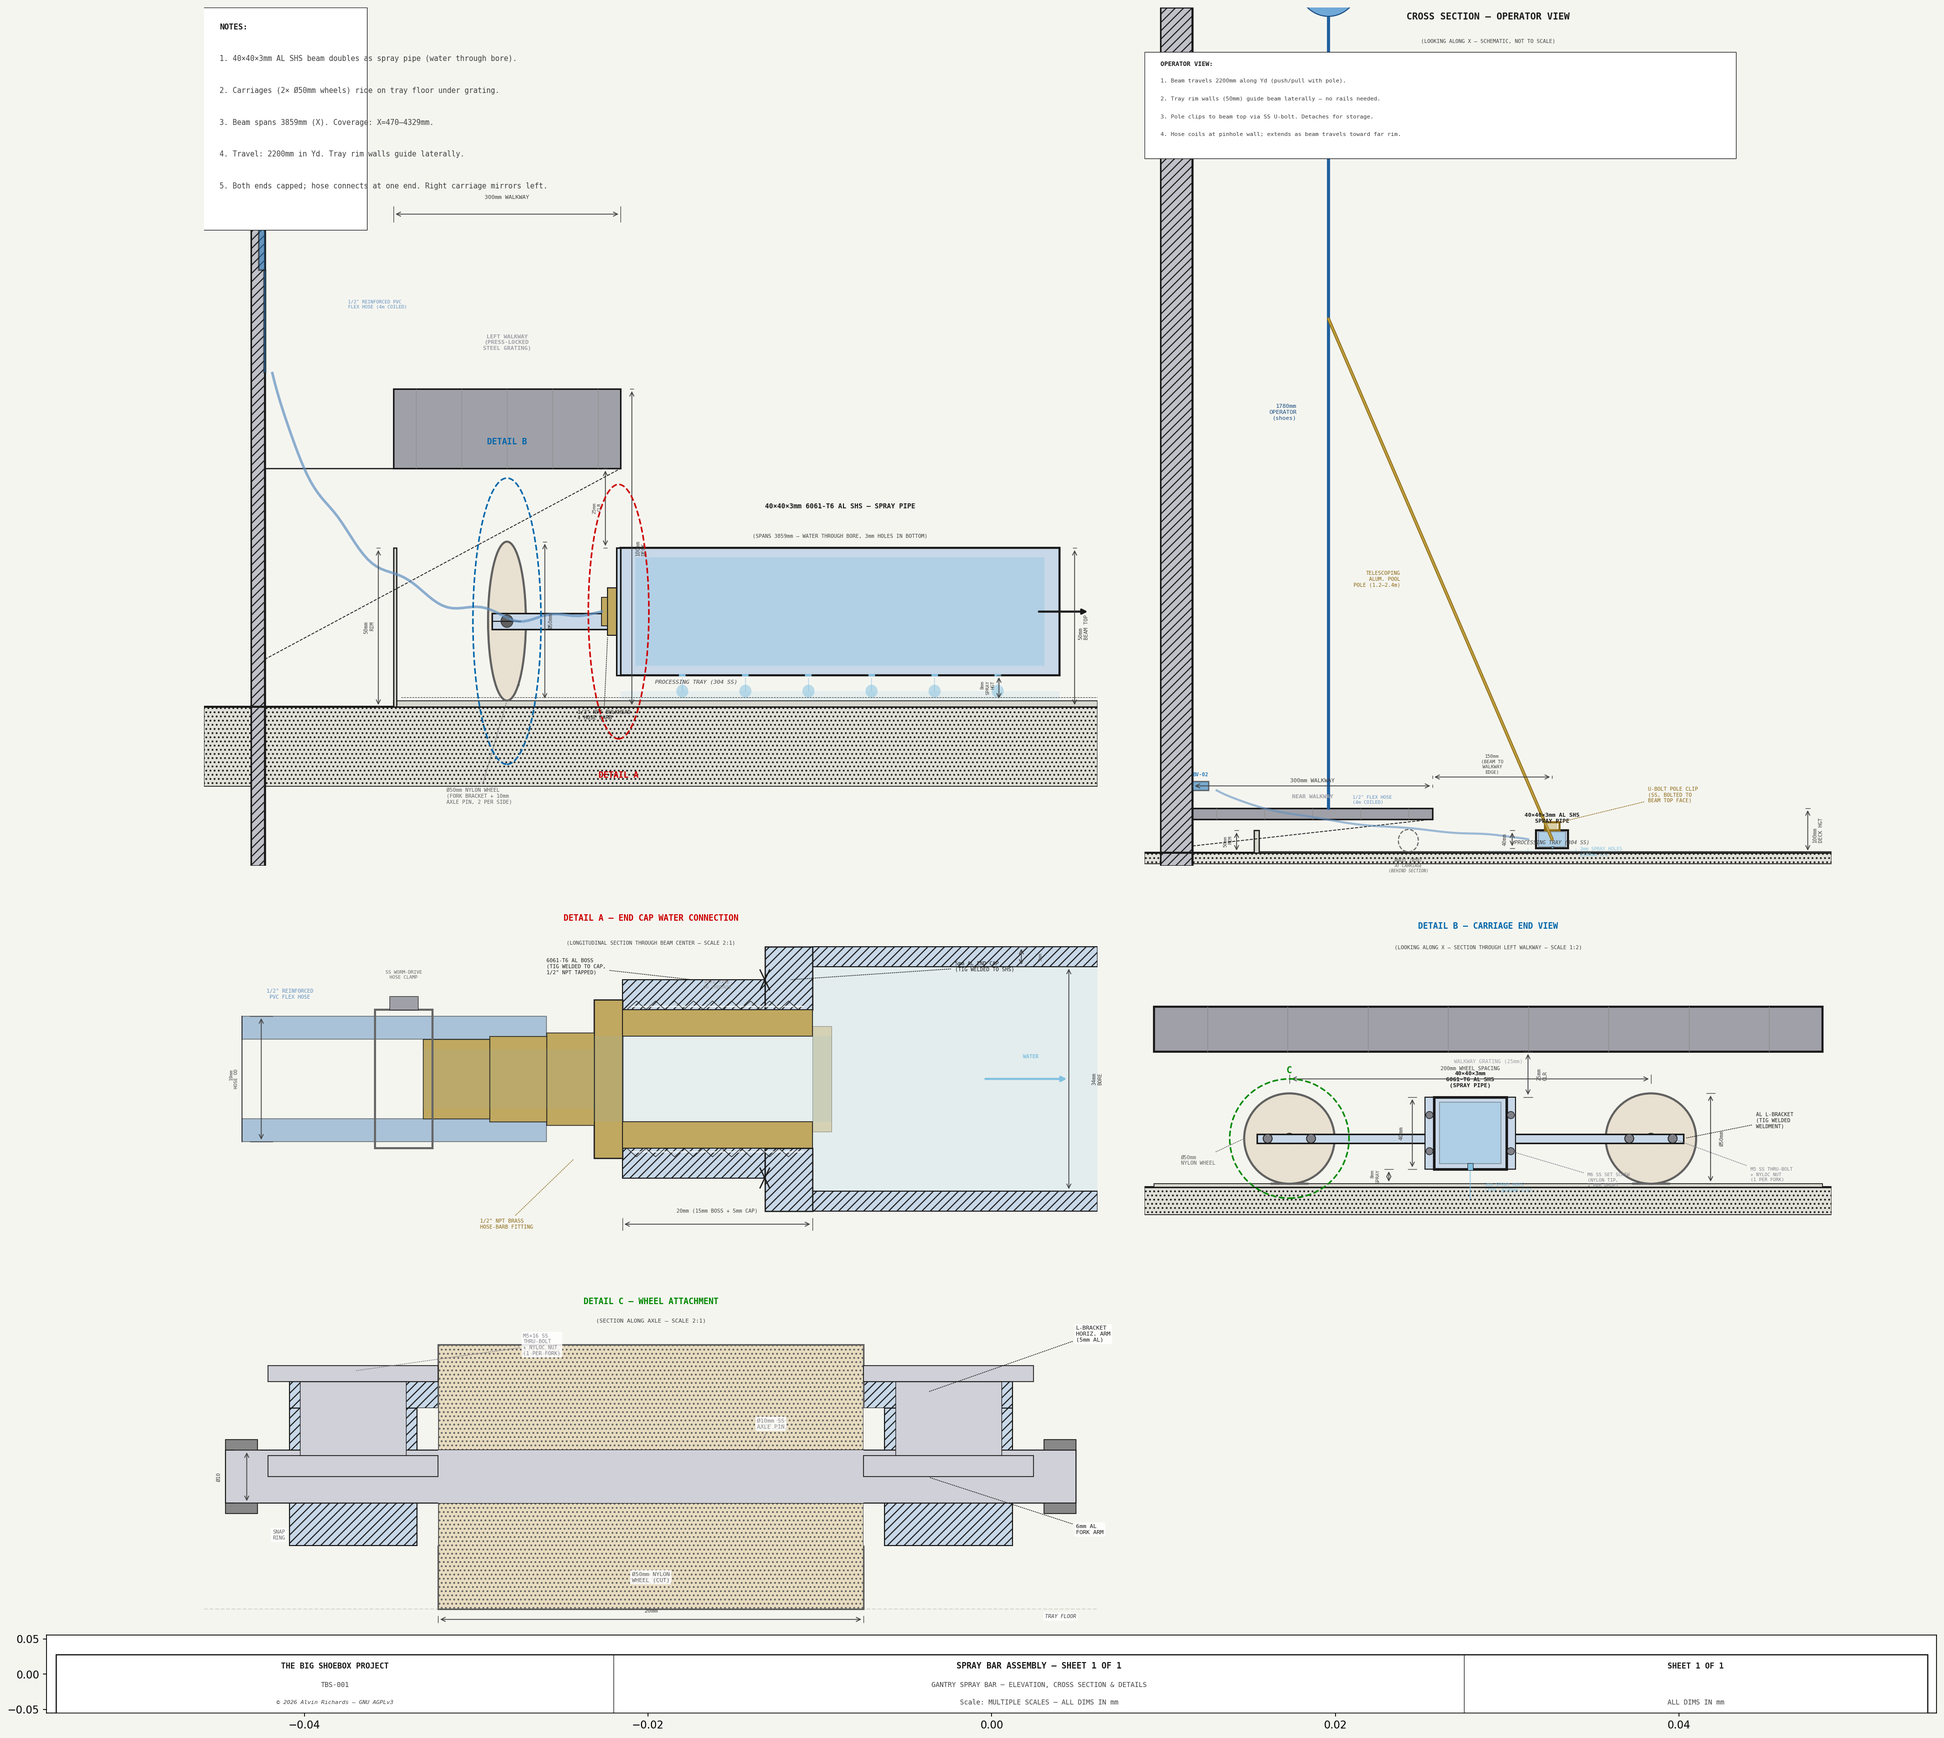
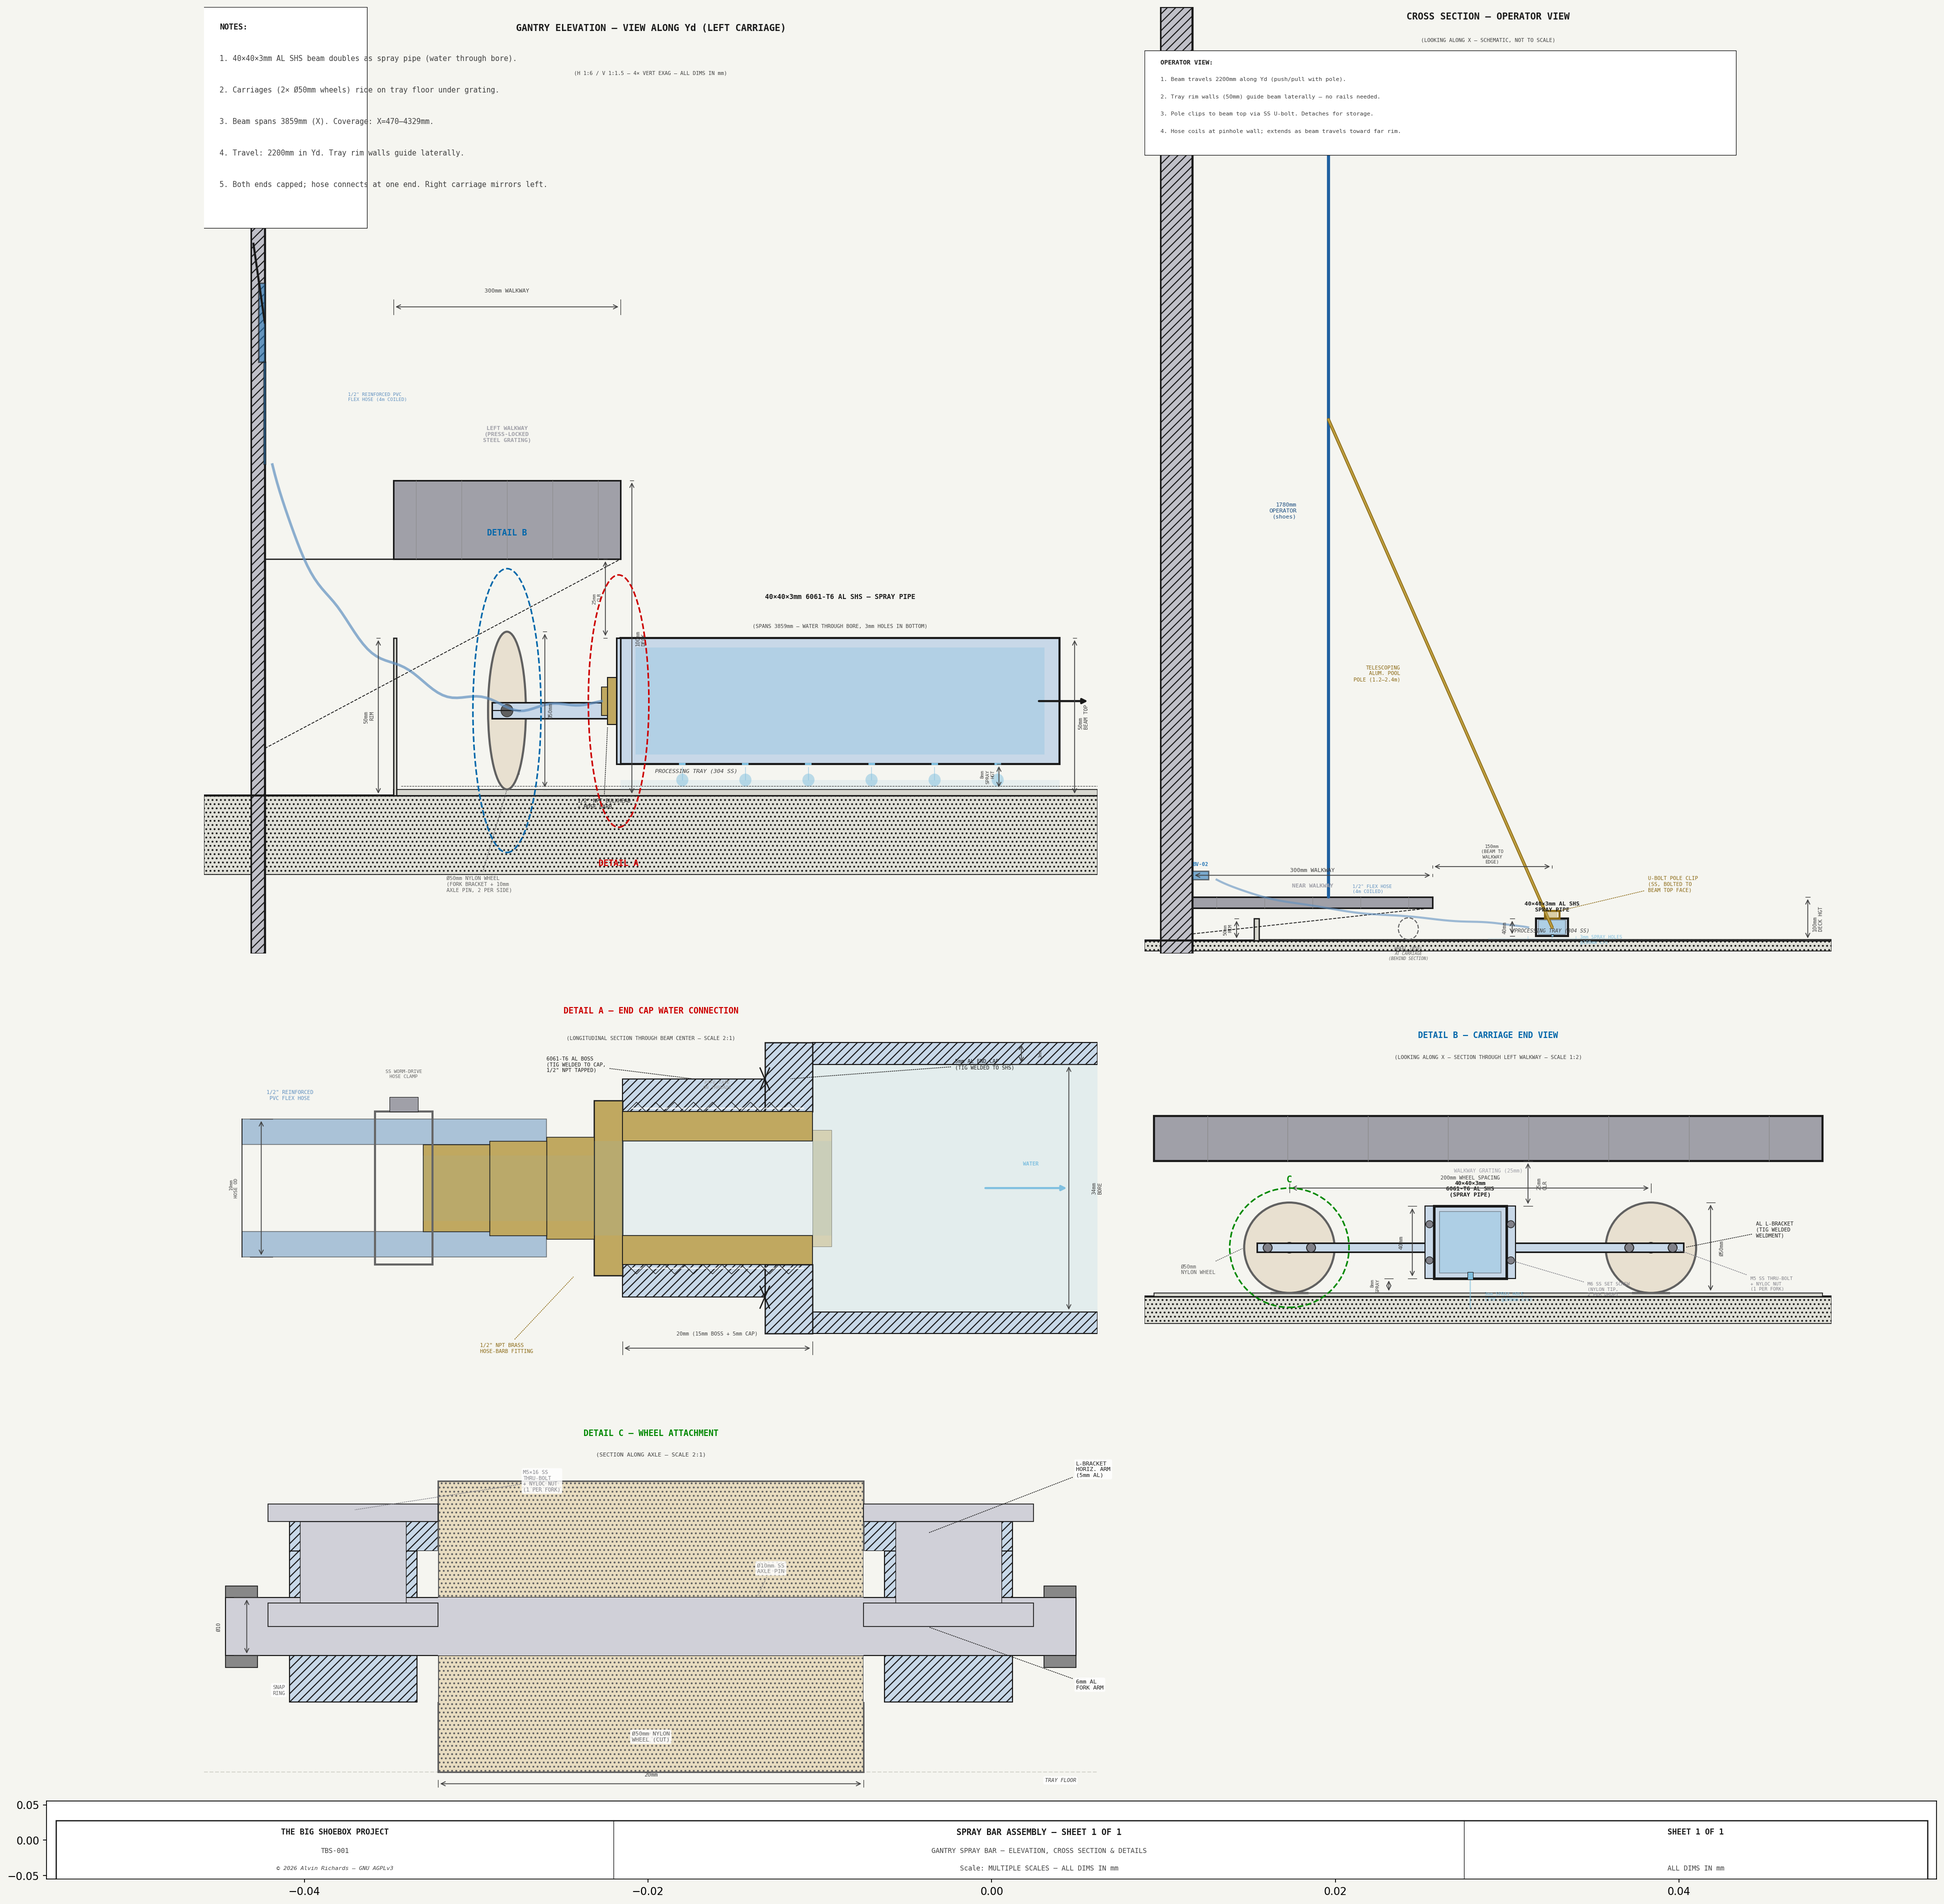
Add panel titles, extend views to prevent clipping
- Add top margin to GridSpec (top=0.965) so titles aren't cropped
- Left panel: add "GANTRY ELEVATION" title + scale subtitle,
  extend Z range from 220 to 250 for title space
- Right panel: extend Z range from 1900 to 2150 so operator head
  (top at Z=2040) is fully visible

diff --git a/generate_spray_bar_diagram.py b/generate_spray_bar_diagram.py
@@ -91,7 +91,7 @@ fig = plt.figure(figsize=(28, 26))
 fig.patch.set_facecolor(C_BG)
 gs = GridSpec(3, 2, figure=fig, width_ratios=[1.3, 1],
               height_ratios=[2.5, 1, 1],
-              wspace=0.06, hspace=0.08, bottom=0.045)
+              wspace=0.06, hspace=0.08, bottom=0.045, top=0.965)
 
 # ─────────────────────────────────────────────────────────────────────────────
 # LEFT PANEL — X-Z elevation looking along Yd, left carriage area
@@ -113,7 +113,7 @@ def sz(z_mm):
 X_LO = -80
 X_HI = 1100
 Z_LO = -50
-Z_HI = 220
+Z_HI = 250
 
 ax.set_xlim(sx(X_LO), sx(X_HI))
 ax.set_ylim(sz(Z_LO), sz(Z_HI))
@@ -379,7 +379,16 @@ notes = [
 draw_notes(ax, notes, sx(X_LO + 20), sz(Z_HI - 5), spacing=10 / V_SC,
            fs=7, font=FONT, width=155 / H_SC)
 
-ax.text(sx(-30), sz(Z_HI - 10),
+ax.text(sx((X_LO + X_HI) / 2), sz(Z_HI - 5),
+        "GANTRY ELEVATION — VIEW ALONG Yd (LEFT CARRIAGE)",
+        ha="center", va="top", fontsize=9, color=C_FRAME,
+        fontweight="bold", **FONT, zorder=15)
+ax.text(sx((X_LO + X_HI) / 2), sz(Z_HI - 20),
+        "(H 1:6 / V 1:1.5 — 4× VERT EXAG — ALL DIMS IN mm)",
+        ha="center", va="top", fontsize=5, color=C_DIM,
+        **FONT, zorder=15)
+
+ax.text(sx(-30), sz(Z_HI - 40),
         "CONTAINER\nLEFT WALL\n(X=0)", ha="right", va="top",
         fontsize=5, color=C_DIM, **FONT)
 
@@ -590,7 +599,7 @@ def dz(z_mm):
 R_YD_LO = -60
 R_YD_HI = 800
 R_Z_LO = -30
-R_Z_HI = 1900
+R_Z_HI = 2150
 
 ax2.set_xlim(dy(R_YD_LO), dy(R_YD_HI))
 ax2.set_ylim(dz(R_Z_LO), dz(R_Z_HI))
